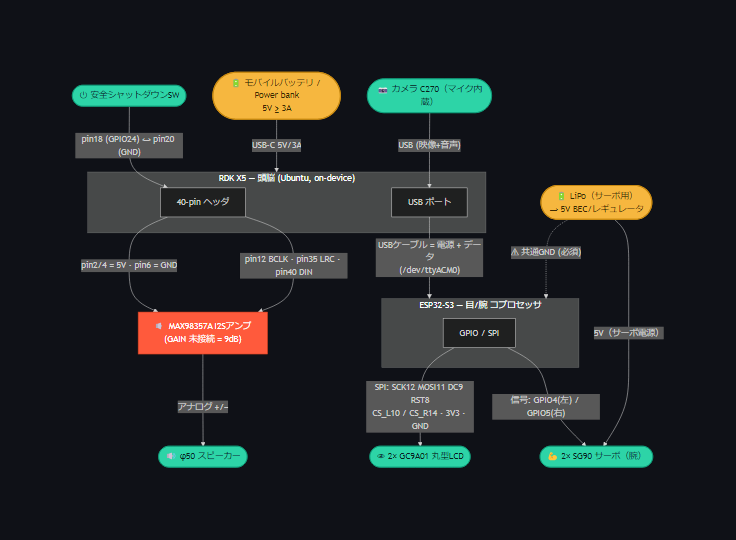
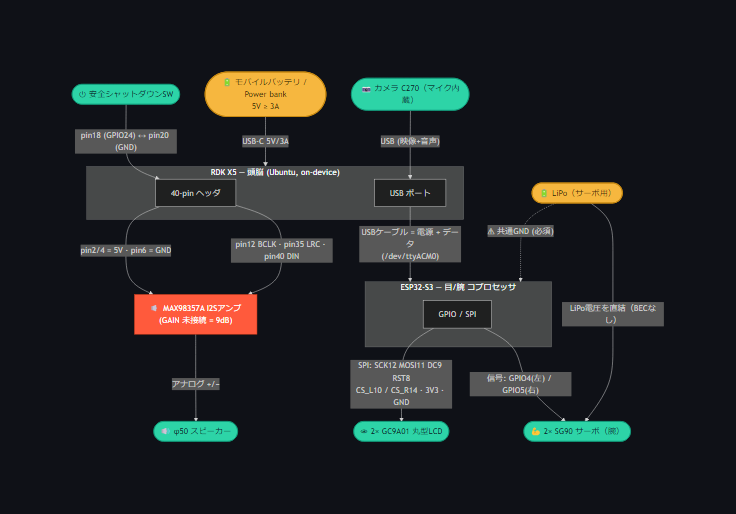
slides+docs: 接続図スライドを追加(5枚)+ wiring JPG/PNG + サーボはLiPo直結(BECなし)に訂正
- デッキに「Connections/wiring」スライド(Mermaid)を追加。Hero/Architecture/
  Connections/日英/Thanks の5枚。デッキJPGも5枚に再出力。
- docs/wiring.md: サーボ電源は5V BEC/レギュレータ無し=LiPo電圧を直結、に訂正。
- docs/slides/img/wiring.png と wiring.jpg を出力(GitHub停止中でも閲覧用)。

Changed region(s): [[0.0938, 0.1245, 0.9062, 0.8716]]

diff --git a/docs/slides/index.html b/docs/slides/index.html
@@ -136,10 +136,34 @@ flowchart LR
       language on the CPU</b> is the right split, not a shortfall.</p>
   </section>
 
+  <!-- connections / wiring -->
+  <section class="slide">
+    <div class="eyebrow"><span>Connections · wiring</span><span class="num">02</span></div>
+    <h2 style="margin-bottom:.2em">How it all wires together</h2>
+    <pre class="mermaid">
+flowchart TB
+  PB([🔋 Power bank 5V/3A]):::pwr -->|USB-C| RDK
+  LIPO([🔋 LiPo]):::pwr -->|LiPo direct · no BEC| SRV
+  CAM([📷 Camera C270]):::io -->|USB| RDK
+  BTN([⏻ Shutdown SW]):::io -->|pin18 / pin20| RDK
+  RDK["RDK X5 — 40-pin + USB"]:::core
+  RDK -->|USB · ttyACM0| ESP["ESP32-S3"]:::core
+  RDK -->|"I2S pin12/35/40 · 5V pin2·4 · GND pin6"| AMP["MAX98357A"]:::amp --> SPK([🔊 φ50 speaker]):::io
+  ESP -->|"SPI SCK12 MOSI11 DC9 RST8 CS10/14"| EYES([👁 2× GC9A01 eyes]):::io
+  ESP -->|"GPIO4 / GPIO5"| SRV([💪 2× SG90 arms]):::io
+  LIPO -.->|"common GND ⚠"| ESP
+  classDef pwr fill:#f6b73f,color:#3a2a00,stroke:#c98a12;
+  classDef io fill:#2dd4a7,color:#06231b,stroke:#12a17f;
+  classDef amp fill:#ff5a3c,color:#fff,stroke:#c93b1a;
+  classDef core fill:#1c2233,color:#eef0f6,stroke:#8891a8;
+</pre>
+    <p class="lead" style="margin-top:.25em;font-size:clamp(13px,1.4vw,17px)">Two power rails — power bank (RDK X5) + LiPo (servos, direct), <b>common ground</b>. Detail → docs/wiring.md</p>
+  </section>
+
   <!-- 4 bilingual + eye photo -->
   <section class="slide split">
     <div class="col-t">
-      <div class="eyebrow"><span>The differentiator</span><span class="num">02</span></div>
+      <div class="eyebrow"><span>The differentiator</span><span class="num">03</span></div>
       <h1 style="font-size:clamp(30px,5.4vw,74px)">日本語 / English / <span class="accent">Auto</span></h1>
       <p class="lead">One switch flips the <b>whole robot</b> — speech recognition, the LLM’s persona &amp;
         replies, the voice, <b>and</b> the web dashboard — instantly, on-device.</p>
@@ -165,7 +189,7 @@ flowchart LR
 <div id="bar"></div>
 <div id="brand"><b>◉◉</b>&nbsp; KOROSUKE · RDK X5</div>
 <div id="hud">
-  <span id="count"><b>1</b> / 4</span>
+  <span id="count"><b>1</b> / 5</span>
   <button id="prev" aria-label="Previous slide">‹</button>
   <button id="next" aria-label="Next slide">›</button>
 </div>

diff --git a/docs/wiring.md b/docs/wiring.md
@@ -6,7 +6,7 @@
 ```mermaid
 flowchart TB
   PB(["🔋 モバイルバッテリ / Power bank<br/>5V ≥ 3A"]):::pwr
-  LIPO(["🔋 LiPo（サーボ用）<br/>→ 5V BEC/レギュレータ"]):::pwr
+  LIPO(["🔋 LiPo（サーボ用）"]):::pwr
 
   subgraph RDK["RDK X5 — 頭脳 (Ubuntu, on-device)"]
     P40["40-pin ヘッダ"]
@@ -28,7 +28,7 @@ flowchart TB
 
   EG -->|"SPI: SCK12 MOSI11 DC9 RST8<br/>CS_L10 / CS_R14 · 3V3 · GND"| EYES(["👁 2× GC9A01 丸型LCD"]):::io
   EG -->|"信号: GPIO4(左) / GPIO5(右)"| SRV(["💪 2× SG90 サーボ（腕）"]):::io
-  LIPO -->|"5V（サーボ電源）"| SRV
+  LIPO -->|"LiPo電圧を直結（BECなし）"| SRV
   LIPO -.->|"⚠ 共通GND (必須)"| ESP
 
   classDef pwr fill:#f6b73f,color:#3a2a00,stroke:#c98a12,stroke-width:2px;
@@ -49,13 +49,13 @@ flowchart TB
 | RDK X5 | USB-A | カメラ C270 | USB | 映像 + マイク |
 | ESP32-S3 | 12/11/9/8/10/14 + 3V3/GND | 2× GC9A01 | SCK/MOSI/DC/RST/CS_L/CS_R | 目（SPI共有・CS分離） |
 | ESP32-S3 | **GPIO4**(左) / **GPIO5**(右) | 2× SG90 | 信号 | 腕サーボPWM |
-| LiPo → 5V BEC | +5V | SG90 サーボ | V+ | **サーボ専用電源** |
+| LiPo | 電圧を直結 | SG90 サーボ | V+ | **サーボ専用電源（BEC/レギュレータなし）** |
 | LiPo | GND | ESP32-S3 / RDK | GND | **共通GND（必須）** |
 
 ## 注意 / ポイント
 - **電源2系統**: RDK X5 はモバイルバッテリ（5V/3A以上・良質なUSB-Cケーブル。半差し/細ケーブルはブラウンアウトの原因 → [power_usb_troubleshooting.md](power_usb_troubleshooting.md)）。サーボは**別のLiPo**で駆動（突入電流でRDKを落とさないため）。
 - **共通GND必須**: LiPo(サーボ) と ESP32-S3/RDK の GND を必ず繋ぐ。繋がないとサーボPWMが不安定。
-- **SG90は4.8〜6V**。LiPoが7.4V(2S)等なら BEC/レギュレータで5Vへ。
+- **サーボはLiPo電圧を直結**（5V BEC/レギュレータは入れていない）。SG90の定格(4.8〜6V)に収まるLiPo構成にすること（過電圧に注意）。
 - **ESP32-S3への配線は基本USB1本**（電源+`ttyACM0`データ）。UART直結にする場合は ESP32 RX=GPIO18 / TX=GPIO17（[firmware/corosuke_eyes](../firmware/corosuke_eyes)）。
 - **MAX98357A GAIN**: 未接続=9dB（既定）。詳細 → [rdk_x5_40pin_i2s_max98357a.md](rdk_x5_40pin_i2s_max98357a.md)。
 - 目の詳細ピンは [firmware/corosuke_eyes/src/main.cpp](../firmware/corosuke_eyes/src/main.cpp) 冒頭コメント参照。
